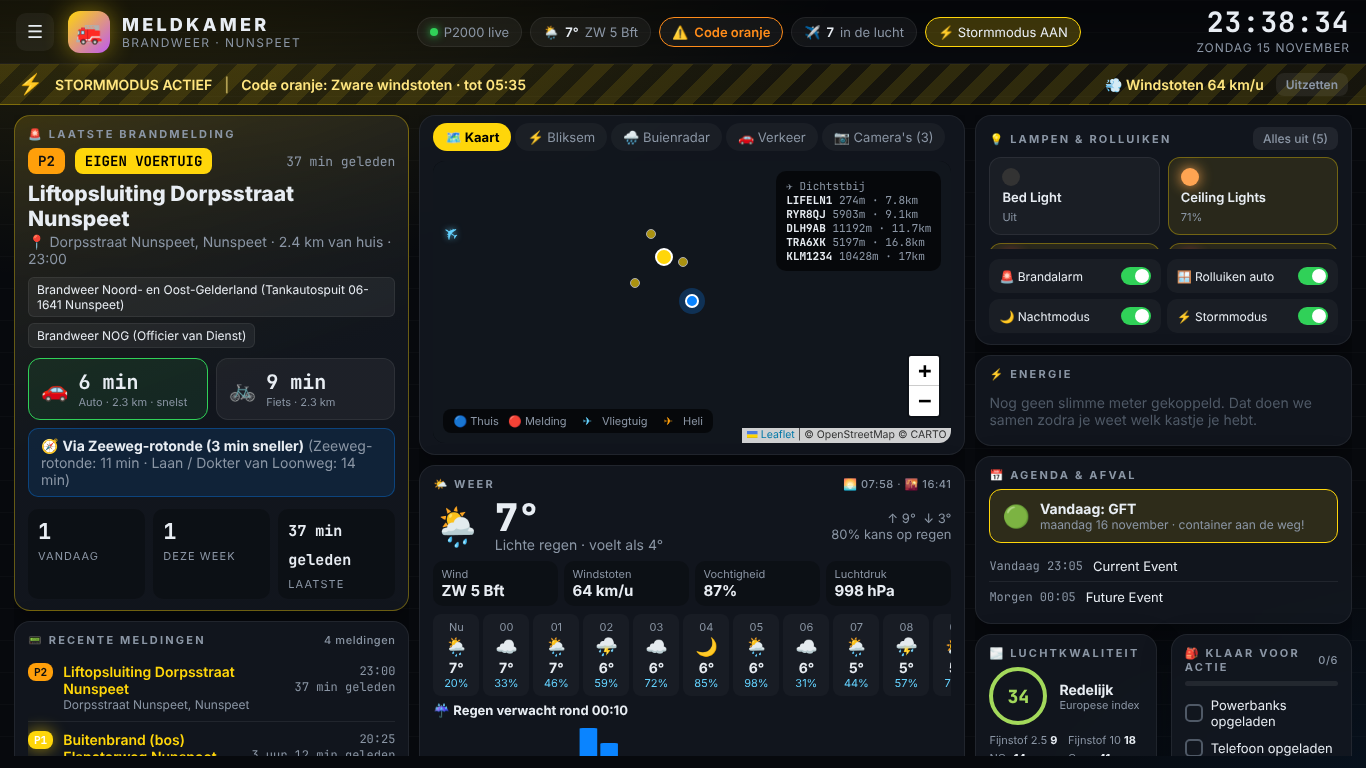
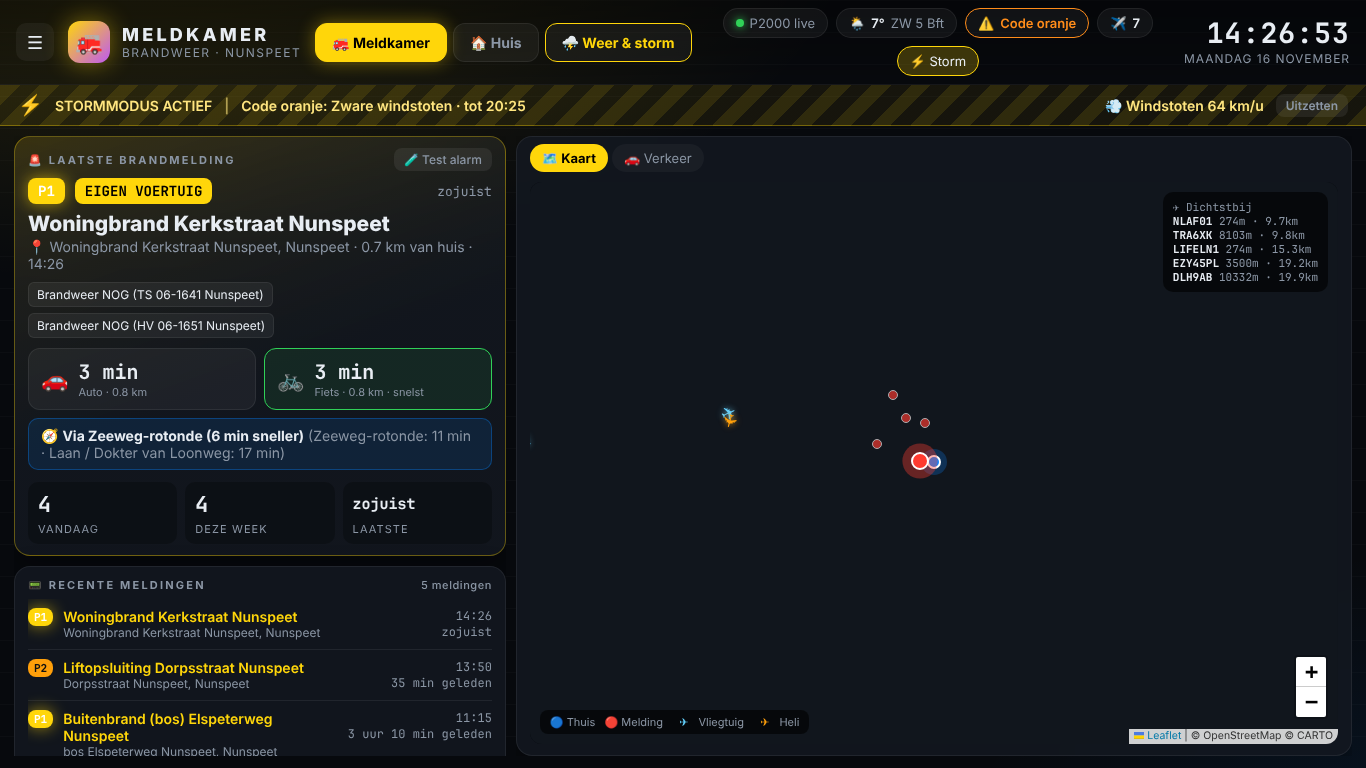
Dashboard in 3 tabbladen: Meldkamer, Huis en Weer & storm
Grote kaart op Meldkamer, camera's groot op Huis, KNMI-waarschuwingen op
Weer & storm. Springt naar Meldkamer bij een melding en na 5 minuten
zonder aanraken.

Claude-Session: https://claude.ai/code/session_0195ypcEwPeemUQZa3YdvhVV

diff --git a/meldkamer/config/www/meldkamer/meldkamer-panel.js b/meldkamer/config/www/meldkamer/meldkamer-panel.js
@@ -107,6 +107,26 @@ button{font:inherit;color:inherit;cursor:pointer;border:0;background:none}
 .klok .d{color:var(--zacht);font-size:12px;letter-spacing:.08em;text-transform:uppercase;font-family:Inter,sans-serif;margin-top:4px}
 .menu{width:38px;height:38px;border-radius:10px;background:rgba(255,255,255,.05);font-size:18px;display:none}
 :host([kiosk]) .menu{display:block}
+/* ---- tabbladen (pagina's) ---- */
+.paginas{display:flex;gap:6px;flex:none}
+.pag-knop{padding:10px 16px;border-radius:12px;background:rgba(255,255,255,.05);border:1px solid var(--rand);
+  font-weight:700;font-size:14px;color:var(--zacht);white-space:nowrap;transition:.15s}
+.pag-knop.aan{background:var(--accent);border-color:var(--accent);color:#fff;box-shadow:0 0 18px color-mix(in srgb,var(--accent) 40%,transparent)}
+:host([storm]) .pag-knop.aan{color:#000}
+:host([storm]) .pag-knop[data-pagina="weer"]:not(.aan){border-color:var(--geel);color:var(--geel);animation:flits 2.4s infinite}
+.pagina:not(.aan){display:none!important}
+.raster.twee{grid-template-columns:minmax(0,1fr) minmax(0,1.7fr)}
+.camgrid{display:grid;grid-template-columns:repeat(2,minmax(0,1fr));gap:10px;align-content:start;overflow:auto;flex:1;min-height:0}
+.camgrid .cam{aspect-ratio:16/10}
+.camgrid .cam span{font-size:14px;left:10px;bottom:8px}
+.camgrid .cam .live{position:absolute;right:8px;top:8px;font-size:11px;font-weight:800;background:var(--accent);color:#fff;padding:2px 7px;border-radius:6px;inset:8px 8px auto auto}
+.knmi{padding:10px 12px;border-radius:12px;margin-bottom:8px;border:1px solid;background:rgba(0,0,0,.2)}
+.knmi b{display:block;font-size:15px}
+.knmi small{color:var(--zacht)}
+.knmi-ok{display:flex;align-items:center;gap:10px;padding:14px;border-radius:12px;background:rgba(48,209,88,.08);border:1px solid rgba(48,209,88,.3)}
+:host .p-huis .lamp{min-height:84px}
+:host .p-huis .lamp .n{font-size:15px}
+:host .p-huis .schakels{grid-template-columns:repeat(auto-fill,minmax(140px,1fr))}
 /* ---- storm ---- */
 .storm{display:none;align-items:center;gap:12px;padding:8px 18px;font-weight:600;font-size:14px;
   background:repeating-linear-gradient(-45deg,rgba(255,214,10,.16) 0 14px,rgba(255,214,10,.06) 14px 28px);
@@ -292,7 +312,6 @@ button{font:inherit;color:inherit;cursor:pointer;border:0;background:none}
   .kaart{padding:11px 13px}
   .kaart h2{margin-bottom:7px}
   .hero-titel{font-size:21px;margin:7px 0 2px}
-  .dagen{display:none}
   .weer-nu .ic{font-size:38px}
   .weer-nu .temp{font-size:38px}
   .weer-details{margin:8px 0}
@@ -301,7 +320,8 @@ button{font:inherit;color:inherit;cursor:pointer;border:0;background:none}
 /* ---- telefoon / smal scherm ---- */
 @media (max-width:1100px){
   .raster{grid-template-columns:minmax(0,1fr) minmax(0,1fr)}
-  .kolom.k3{grid-column:1 / -1}
+  .raster .kolom.k3{grid-column:1 / -1}
+  .chips .chip.extra{display:none}
 }
 @media (max-width:760px){
   .wrap{height:auto;min-height:100%;overflow:visible}
@@ -310,7 +330,10 @@ button{font:inherit;color:inherit;cursor:pointer;border:0;background:none}
   .storm span[style]{margin-left:0!important}
   .kolom{overflow:visible}
   .kop{flex-wrap:wrap;padding:12px}
-  .chips{order:3;justify-content:flex-start;flex-basis:100%}
+  .chips{order:4;justify-content:flex-start;flex-basis:100%}
+  .paginas{order:3;flex-basis:100%;overflow-x:auto}
+  .pag-knop{flex:1;padding:10px 8px;font-size:13px}
+  .camgrid{grid-template-columns:minmax(0,1fr)}
   .klok .t{font-size:26px}
   .venster{min-height:340px}
   .duo{grid-template-columns:1fr}
@@ -326,6 +349,8 @@ class MeldkamerPanel extends HTMLElement {
     super();
     this.attachShadow({ mode: "open" });
     this._tab = "kaart";
+    this._weerTab = "radar";
+    this._pagina = "meldkamer";
     this._handtekening = {};
     this._agenda = [];
     this._energie = null;
@@ -395,11 +420,16 @@ class MeldkamerPanel extends HTMLElement {
         <header class="kop">
           <button class="menu" data-actie="menu" title="Menu">☰</button>
           <div class="logo"><div class="bol">🚒</div><div><h1>MELDKAMER</h1><small id="plaats"></small></div></div>
+          <nav class="paginas" id="paginas">
+            <button class="pag-knop aan" data-actie="pagina" data-pagina="meldkamer">🚒 Meldkamer</button>
+            <button class="pag-knop" data-actie="pagina" data-pagina="huis">🏠 Huis</button>
+            <button class="pag-knop" data-actie="pagina" data-pagina="weer">⛈ Weer & storm</button>
+          </nav>
           <div class="chips" id="chips"></div>
           <div class="klok"><div class="t" id="klok">--:--:--</div><div class="d" id="datum"></div></div>
         </header>
         <div class="storm" id="storm"></div>
-        <main class="raster">
+        <main class="raster twee pagina p-meldkamer" id="p-meldkamer">
           <section class="kolom k1">
             <div class="kaart melding-hero" id="hero"></div>
             <div class="kaart groei"><h2>📟 Recente meldingen <span class="r" id="lijst-info"></span></h2><div class="scroll" id="lijst"></div></div>
@@ -411,21 +441,40 @@ class MeldkamerPanel extends HTMLElement {
                 <div id="map"></div>
                 <div class="legenda" id="legenda">🔵 Thuis &nbsp; 🔴 Melding &nbsp; <span style="color:#64d2ff">✈</span> Vliegtuig &nbsp; <span style="color:#ff9f0a">✈</span> Heli</div>
                 <div class="vlieg-lijst" id="vlieglijst"></div>
-                <img class="radar verberg" id="radar" alt="Buienradar">
                 <iframe class="verberg" id="iframe" loading="lazy" allow="fullscreen"></iframe>
-                <div class="cams verberg" id="cams"></div>
               </div>
             </div>
-            <div class="kaart" id="weer"></div>
+          </section>
+        </main>
+        <main class="raster pagina p-huis" id="p-huis">
+          <section class="kolom k1">
+            <div class="kaart groei" id="bediening"></div>
+          </section>
+          <section class="kolom k2">
+            <div class="kaart groei lang"><h2>📷 Camera's <span class="r" id="cam-info"></span></h2><div class="camgrid" id="camgrid"></div></div>
           </section>
           <section class="kolom k3">
-            <div class="kaart groei" id="bediening"></div>
-            <div class="kaart" id="energie"></div>
             <div class="kaart" id="agenda"></div>
-            <div class="duo">
-              <div class="kaart" id="lucht"></div>
-              <div class="kaart" id="check"></div>
+            <div class="kaart" id="energie"></div>
+            <div class="kaart" id="check"></div>
+          </section>
+        </main>
+        <main class="raster pagina p-weer" id="p-weer">
+          <section class="kolom k1">
+            <div class="kaart" id="weer"></div>
+          </section>
+          <section class="kolom k2">
+            <div class="kaart groei lang">
+              <div class="tabs" id="wtabs"></div>
+              <div class="venster" id="wvenster">
+                <img class="radar" id="radar" alt="Buienradar">
+                <iframe class="verberg" id="wiframe" loading="lazy" allow="fullscreen"></iframe>
+              </div>
             </div>
+          </section>
+          <section class="kolom k3">
+            <div class="kaart" id="knmi"></div>
+            <div class="kaart" id="lucht"></div>
           </section>
         </main>
         <div class="nacht" id="nacht"><div class="t" id="nachtklok"></div><div class="s" id="nachtinfo"></div><div class="s">Tik om het scherm te wekken</div></div>
@@ -446,7 +495,12 @@ class MeldkamerPanel extends HTMLElement {
     this._audio();
     this._laadLeaflet();
     this._laadExtra();
+    this._toonPagina("meldkamer");
     this._toonTab();
+    this._toonWeerTab();
+    // Bijhouden wanneer het scherm voor het laatst is aangeraakt
+    this._actief = Date.now();
+    ["pointerdown", "keydown", "wheel"].forEach((ev) => root.addEventListener(ev, () => (this._actief = Date.now()), { passive: true }));
   }
 
   _audio() {
@@ -492,13 +546,8 @@ class MeldkamerPanel extends HTMLElement {
     const storm = this._aan("input_boolean.meldkamer_stormmodus");
     if (storm !== this.hasAttribute("storm")) {
       this.toggleAttribute("storm", storm);
-      if (storm) {
-        this._tab = "bliksem";
-        this._toonTab();
-      } else if (this._tab === "bliksem") {
-        this._tab = "kaart";
-        this._toonTab();
-      }
+      this._weerTab = storm ? "bliksem" : "radar";
+      this._toonWeerTab();
     }
     const inst = this._s("sensor.meldkamer_instellingen")?.attributes || {};
     this.shadowRoot.getElementById("plaats").textContent = inst.plaats ? `Brandweer · ${inst.plaats}` : "Brandweer";
@@ -513,7 +562,9 @@ class MeldkamerPanel extends HTMLElement {
     this._tekenEnergie();
     this._tekenAgenda();
     this._tekenLucht();
+    this._tekenKnmi();
     this._tekenCheck();
+    this._tekenCamInfo();
     this._controleerAlarm();
   }
 
@@ -529,6 +580,7 @@ class MeldkamerPanel extends HTMLElement {
     if (ge) ge.textContent = tijdGeleden(ge.dataset.t);
     r.querySelectorAll("[data-sinds]").forEach((el) => (el.textContent = tijdGeleden(el.dataset.sinds)));
     this._tekenNacht(nu);
+    if (this._pagina !== "meldkamer" && Date.now() - (this._actief || 0) > 5 * 60 * 1000) this._toonPagina("meldkamer");
   }
 
   _tekenChips() {
@@ -550,8 +602,7 @@ class MeldkamerPanel extends HTMLElement {
     if (code && code !== "geen" && code !== "unknown")
       chips.push(`<div class="chip" style="border-color:${KNMI_KLEUR[code]};color:${KNMI_KLEUR[code]}">⚠ <b style="color:inherit">Code ${esc(code)}</b></div>`);
     else if (knmi) chips.push(`<div class="chip">✅ Geen weeralarm</div>`);
-    if (vl && vl.state !== "unknown") chips.push(`<div class="chip">✈ <b>${esc(vl.state)}</b> in de lucht</div>`);
-    chips.push(`<div class="chip knop ${storm ? "aan" : ""}" data-actie="toggle" data-id="input_boolean.meldkamer_stormmodus">⚡ Stormmodus ${storm ? "AAN" : "uit"}</div>`);
+    if (vl && vl.state !== "unknown") chips.push(`<div class="chip extra">✈ <b>${esc(vl.state)}</b></div>`);
     this.shadowRoot.getElementById("chips").innerHTML = chips.join("");
   }
 
@@ -635,21 +686,30 @@ class MeldkamerPanel extends HTMLElement {
 
   // ---- kaart en tabbladen ----
 
+  _toonPagina(p) {
+    this._pagina = p;
+    const r = this.shadowRoot;
+    ["meldkamer", "huis", "weer"].forEach((n) => r.getElementById("p-" + n)?.classList.toggle("aan", n === p));
+    r.querySelectorAll(".pag-knop").forEach((b) => b.classList.toggle("aan", b.dataset.pagina === p));
+    if (p === "meldkamer" && this._map) setTimeout(() => this._map.invalidateSize(), 50);
+    if (p === "huis" && this._hass) this._tekenCams();
+    if (p === "weer") {
+      this._ververstRadar();
+      this._toonWeerTab();
+    }
+  }
+
   _tekenTabs() {
-    const cams = this._ent("camera").length;
     const inst = this._s("sensor.meldkamer_instellingen")?.attributes || {};
-    const sig = `${this._tab}|${cams}|${inst.webcam || ""}`;
+    const sig = `${this._tab}|${inst.webcam || ""}`;
     if (!this._veranderd("tabs", sig)) return;
     const tabs = [
       ["kaart", "🗺 Kaart"],
-      ["bliksem", "⚡ Bliksem", "storm-tab"],
-      ["radar", "🌧 Buienradar"],
       ["verkeer", "🚗 Verkeer"],
     ];
-    if (cams) tabs.push(["cams", `📷 Camera's (${cams})`]);
-    if (inst.webcam) tabs.push(["webcam", "🎥 Webcam"]);
+    if (inst.webcam) tabs.push(["webcam", "🎥 Webcam Nunspeet"]);
     this.shadowRoot.getElementById("tabs").innerHTML = tabs
-      .map(([id, label, kl]) => `<button class="tab ${kl || ""} ${this._tab === id ? "aan" : ""}" data-actie="tab" data-tab="${id}">${label}</button>`)
+      .map(([id, label]) => `<button class="tab ${this._tab === id ? "aan" : ""}" data-actie="tab" data-tab="${id}">${label}</button>`)
       .join("");
   }
 
@@ -660,38 +720,82 @@ class MeldkamerPanel extends HTMLElement {
     const lon = inst.lon ?? this._hass?.config?.longitude ?? 5.78;
     const kaart = this._tab === "kaart";
     ["map", "legenda", "vlieglijst"].forEach((id) => r.getElementById(id)?.classList.toggle("verberg", !kaart));
-    r.getElementById("radar").classList.toggle("verberg", this._tab !== "radar");
-    r.getElementById("cams").classList.toggle("verberg", this._tab !== "cams");
     const iframe = r.getElementById("iframe");
     let src = "";
     if (this._tab === "verkeer") src = `https://embed.waze.com/iframe?zoom=12&lat=${lat}&lon=${lon}&ct=livemap`;
-    if (this._tab === "bliksem") src = `https://map.blitzortung.org/#8/${lat}/${lon}`;
     if (this._tab === "webcam") src = inst.webcam || "";
     iframe.classList.toggle("verberg", !src);
     if (src && iframe.getAttribute("src") !== src) iframe.setAttribute("src", src);
     if (!src && iframe.getAttribute("src")) iframe.removeAttribute("src");
-    if (this._tab === "radar") this._ververstRadar();
-    if (this._tab === "cams") this._tekenCams();
     if (kaart && this._map) setTimeout(() => this._map.invalidateSize(), 50);
     this._handtekening.tabs = null;
     if (this._hass) this._tekenTabs();
   }
 
+  _toonWeerTab() {
+    const r = this.shadowRoot;
+    const storm = this.hasAttribute("storm");
+    if (!storm && this._weerTab === "bliksem") this._weerTab = "radar";
+    const tabs = [["radar", "🌧 Buienradar"]];
+    if (storm) tabs.push(["bliksem", "⚡ Bliksem live"]);
+    r.getElementById("wtabs").innerHTML = tabs
+      .map(([id, label]) => `<button class="tab ${this._weerTab === id ? "aan" : ""}" data-actie="wtab" data-tab="${id}">${label}</button>`)
+      .join("") + (storm ? "" : `<span class="tab" style="background:none;color:var(--zwak)">⚡ Bliksem verschijnt in stormmodus</span>`);
+    const inst = this._s("sensor.meldkamer_instellingen")?.attributes || {};
+    const lat = inst.lat ?? this._hass?.config?.latitude ?? 52.37;
+    const lon = inst.lon ?? this._hass?.config?.longitude ?? 5.78;
+    r.getElementById("radar").classList.toggle("verberg", this._weerTab !== "radar");
+    const iframe = r.getElementById("wiframe");
+    const src = this._weerTab === "bliksem" ? `https://map.blitzortung.org/#8/${lat}/${lon}` : "";
+    iframe.classList.toggle("verberg", !src);
+    if (src && iframe.getAttribute("src") !== src) iframe.setAttribute("src", src);
+    if (!src && iframe.getAttribute("src")) iframe.removeAttribute("src");
+    if (this._weerTab === "radar") this._ververstRadar();
+  }
+
   _ververstRadar() {
     const img = this.shadowRoot.getElementById("radar");
-    img.src = `https://image.buienradar.nl/2.0/image/animation/RadarMapRainNL?height=512&width=500&renderBackground=True&renderBranding=False&renderText=True&t=${Math.floor(Date.now() / 300000)}`;
+    const src = `https://image.buienradar.nl/2.0/image/animation/RadarMapRainNL?height=512&width=500&renderBackground=True&renderBranding=False&renderText=True&t=${Math.floor(Date.now() / 300000)}`;
+    if (img.getAttribute("src") !== src) img.src = src;
+  }
+
+  _tekenCamInfo() {
+    const n = this._ent("camera").length;
+    const el = this.shadowRoot.getElementById("cam-info");
+    if (el) el.textContent = n ? `${n} camera's · tik voor live beeld` : "";
+    if (this._veranderd("camlijst", this._ent("camera").map((c) => c.entity_id).join())) this._tekenCams();
   }
 
   _tekenCams() {
     const cams = this._ent("camera");
-    this.shadowRoot.getElementById("cams").innerHTML = cams.length
+    this.shadowRoot.getElementById("camgrid").innerHTML = cams.length
       ? cams
-          .map((c) => `<div class="cam" data-actie="meer" data-id="${esc(c.entity_id)}"><img src="${esc(c.attributes.entity_picture || "")}&t=${Date.now()}" alt=""><span>${esc(this._naam(c))}</span></div>`)
+          .map((c) => `<div class="cam" data-actie="meer" data-id="${esc(c.entity_id)}"><img src="${esc(c.attributes.entity_picture || "")}&t=${Date.now()}" alt=""><span>📷 ${esc(this._naam(c))}</span>${c.state === "streaming" || c.state === "recording" ? '<b class="live">LIVE</b>' : ""}</div>`)
           .join("")
-      : `<div class="leeg" style="padding:12px">Nog geen camera's gekoppeld.</div>`;
+      : `<div class="leeg" style="padding:12px">Nog geen camera's gekoppeld. Koppel je Ring-account via Instellingen → Apparaten & diensten → Ring.</div>`;
   }
   _ververstCams() {
-    if (this._tab === "cams") this._tekenCams();
+    if (this._pagina === "huis") this._tekenCams();
+  }
+
+  _tekenKnmi() {
+    if (!this._veranderd("knmi", this._sig("sensor.meldkamer_knmi", "input_boolean.meldkamer_stormmodus"))) return;
+    const k = this._s("sensor.meldkamer_knmi")?.attributes || {};
+    const lijst = k.waarschuwingen || [];
+    const storm = this._aan("input_boolean.meldkamer_stormmodus");
+    const tijd = (iso) => {
+      const d = new Date(iso);
+      return isNaN(d) ? "" : d.toLocaleString("nl-NL", { weekday: "short", hour: "2-digit", minute: "2-digit" });
+    };
+    this.shadowRoot.getElementById("knmi").innerHTML = `
+      <h2>⚠ KNMI-waarschuwingen <span class="r"><button class="klein-knop" data-actie="toggle" data-id="input_boolean.meldkamer_stormmodus">⚡ Stormmodus ${storm ? "uitzetten" : "aanzetten"}</button></span></h2>
+      ${lijst.length
+        ? lijst
+            .map((w) => `<div class="knmi" style="border-color:${KNMI_KLEUR[w.kleur] || "#555"}">
+                <b style="color:${KNMI_KLEUR[w.kleur] || "inherit"}">Code ${esc(w.kleur)}: ${esc(w.soort)}</b>
+                <small>${esc(w.gebied)}${w.vanaf ? " · vanaf " + tijd(w.vanaf) : ""}${w.tot ? " · tot " + tijd(w.tot) : ""}</small></div>`)
+            .join("")
+        : `<div class="knmi-ok"><span style="font-size:26px">✅</span><div><b>Geen waarschuwingen</b><div style="font-size:12px;color:var(--zacht)">Rustig weer in jouw provincie</div></div></div>`}`;
   }
 
   _laadLeaflet() {
@@ -772,6 +876,7 @@ class MeldkamerPanel extends HTMLElement {
     const m = this._meldingen()[i];
     if (!m) return;
     if (m.lat && this._map) {
+      this._toonPagina("meldkamer");
       this._tab = "kaart";
       this._toonTab();
       this._map.flyTo([m.lat, m.lon], 15, { duration: 1 });
@@ -1096,6 +1201,9 @@ class MeldkamerPanel extends HTMLElement {
 
   _toonAlarm(m) {
     this._alarmId = m.id;
+    this._toonPagina("meldkamer");
+    this._tab = "kaart";
+    this._toonTab();
     const r = m.route;
     const el = this.shadowRoot.getElementById("alarm");
     el.innerHTML = `
@@ -1208,6 +1316,13 @@ class MeldkamerPanel extends HTMLElement {
       case "tab":
         this._tab = el.dataset.tab;
         this._toonTab();
+        break;
+      case "wtab":
+        this._weerTab = el.dataset.tab;
+        this._toonWeerTab();
+        break;
+      case "pagina":
+        this._toonPagina(el.dataset.pagina);
         break;
       case "focus":
         this._focusMelding(+el.dataset.i);
